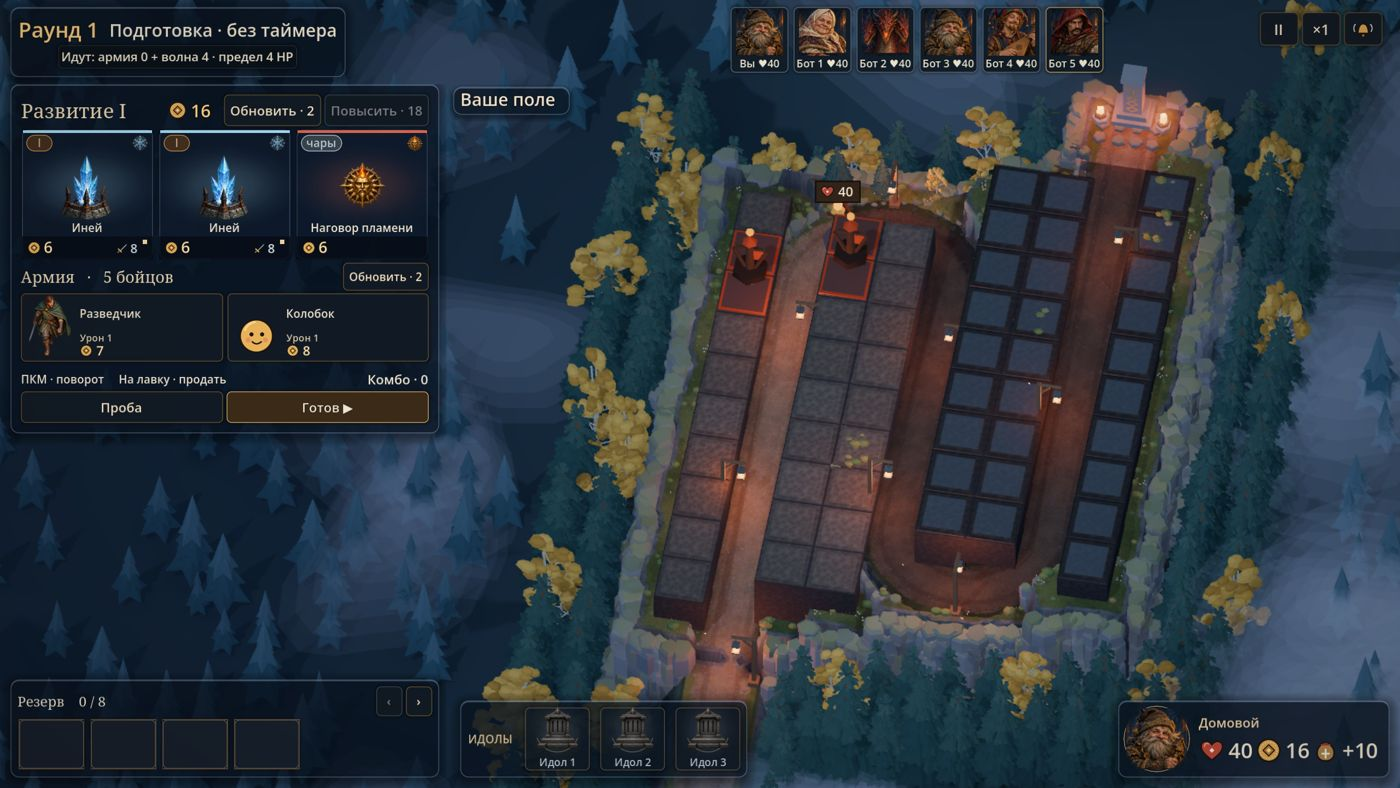
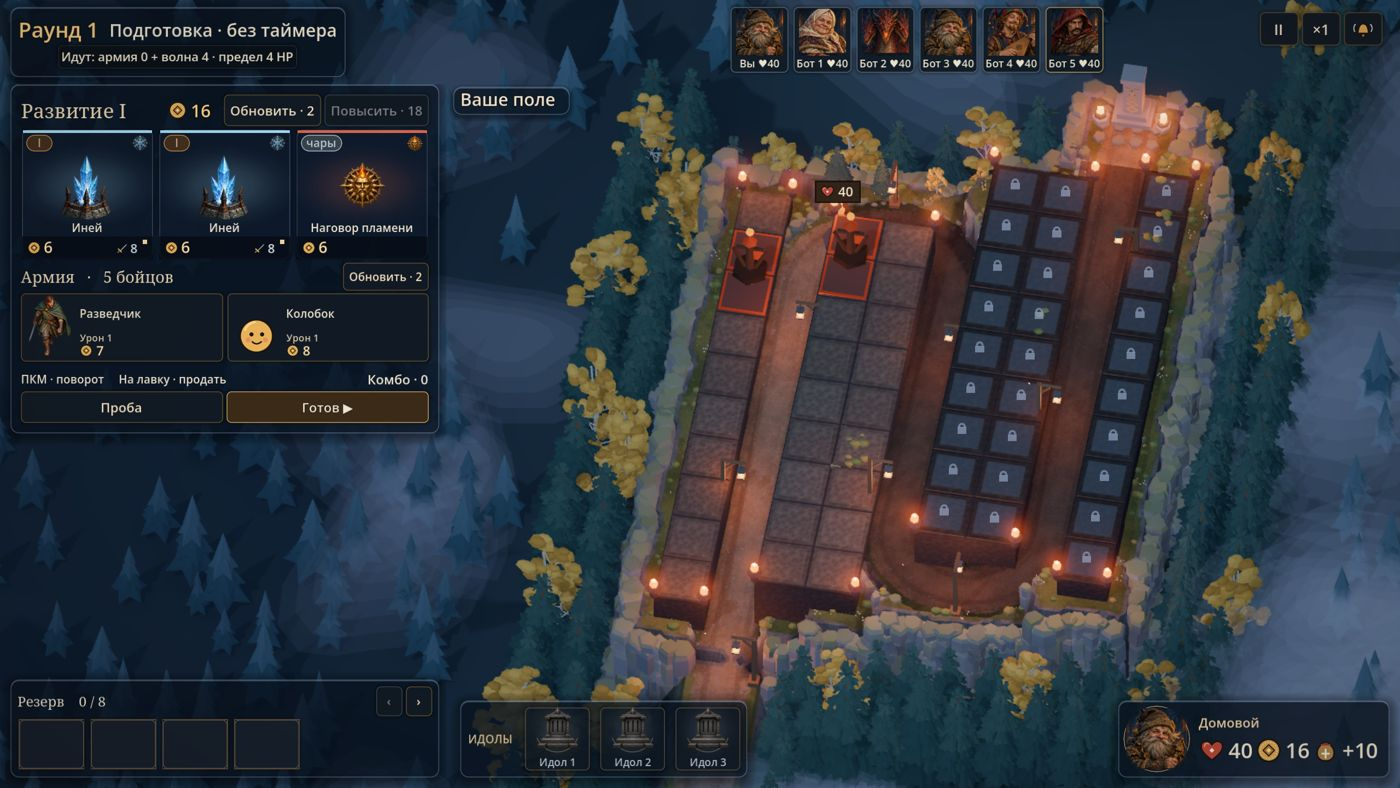
Визуал: замки на закрытых местах

Changed region(s): [[0.4914, 0.0914, 0.9214, 0.335], [0.43, 0.6701, 0.645, 0.8528], [0.645, 0.6091, 0.8293, 0.8223]]

diff --git a/docs/presentation/2026-11-03-3d-mvp.html b/docs/presentation/2026-11-03-3d-mvp.html
@@ -114,7 +114,7 @@ ol.rounds li{margin:10px 0}
 </ul>
 <div class="pair"><figure><img class="shot" src="2026-11-03-3d-mvp/v2_prep.jpg" alt="Подготовка: ровные площадки, новые карточки, нижний ряд" loading="lazy"><figcaption>Подготовка: ровные площадки, новые карточки, нижний ряд</figcaption></figure><figure><img class="shot" src="2026-11-03-3d-mvp/v2_wave.jpg" alt="Бой на Forward+" loading="lazy"><figcaption>Бой на Forward+</figcaption></figure></div>
 <div class="pair"><figure><img class="shot" src="2026-11-03-3d-mvp/v2_cards.jpg" alt="Лавка: тир, стихия, цена, урон, форма" loading="lazy"><figcaption>Лавка: тир, стихия, цена, урон, форма</figcaption></figure><figure><img class="shot" src="2026-11-03-3d-mvp/v2_stone.jpg" alt="Площадки с фактурой камня" loading="lazy"><figcaption>Площадки с фактурой камня</figcaption></figure></div>
-<div class="pair"><figure><img class="shot" src="2026-11-03-3d-mvp/v2_first.jpg" alt="Раунд 1: закрытые места в тумане" loading="lazy"><figcaption>Раунд 1: закрытые места в тумане</figcaption></figure><figure><img class="shot" src="2026-11-03-3d-mvp/v2_deck_flat.jpg" alt="Первый вариант площадок (до фактуры)" loading="lazy"><figcaption>Первый вариант площадок (до фактуры)</figcaption></figure></div>
+<div class="pair"><figure><img class="shot" src="2026-11-03-3d-mvp/v2_first.jpg" alt="Раунд 1: закрытые места — тёмные плиты с замком" loading="lazy"><figcaption>Раунд 1: закрытые места в тумане</figcaption></figure><figure><img class="shot" src="2026-11-03-3d-mvp/v2_deck_flat.jpg" alt="Первый вариант площадок (до фактуры)" loading="lazy"><figcaption>Первый вариант площадок (до фактуры)</figcaption></figure></div>
 
 <h2>Решения (проверить утром)</h2>
 <div class="panel warn">
